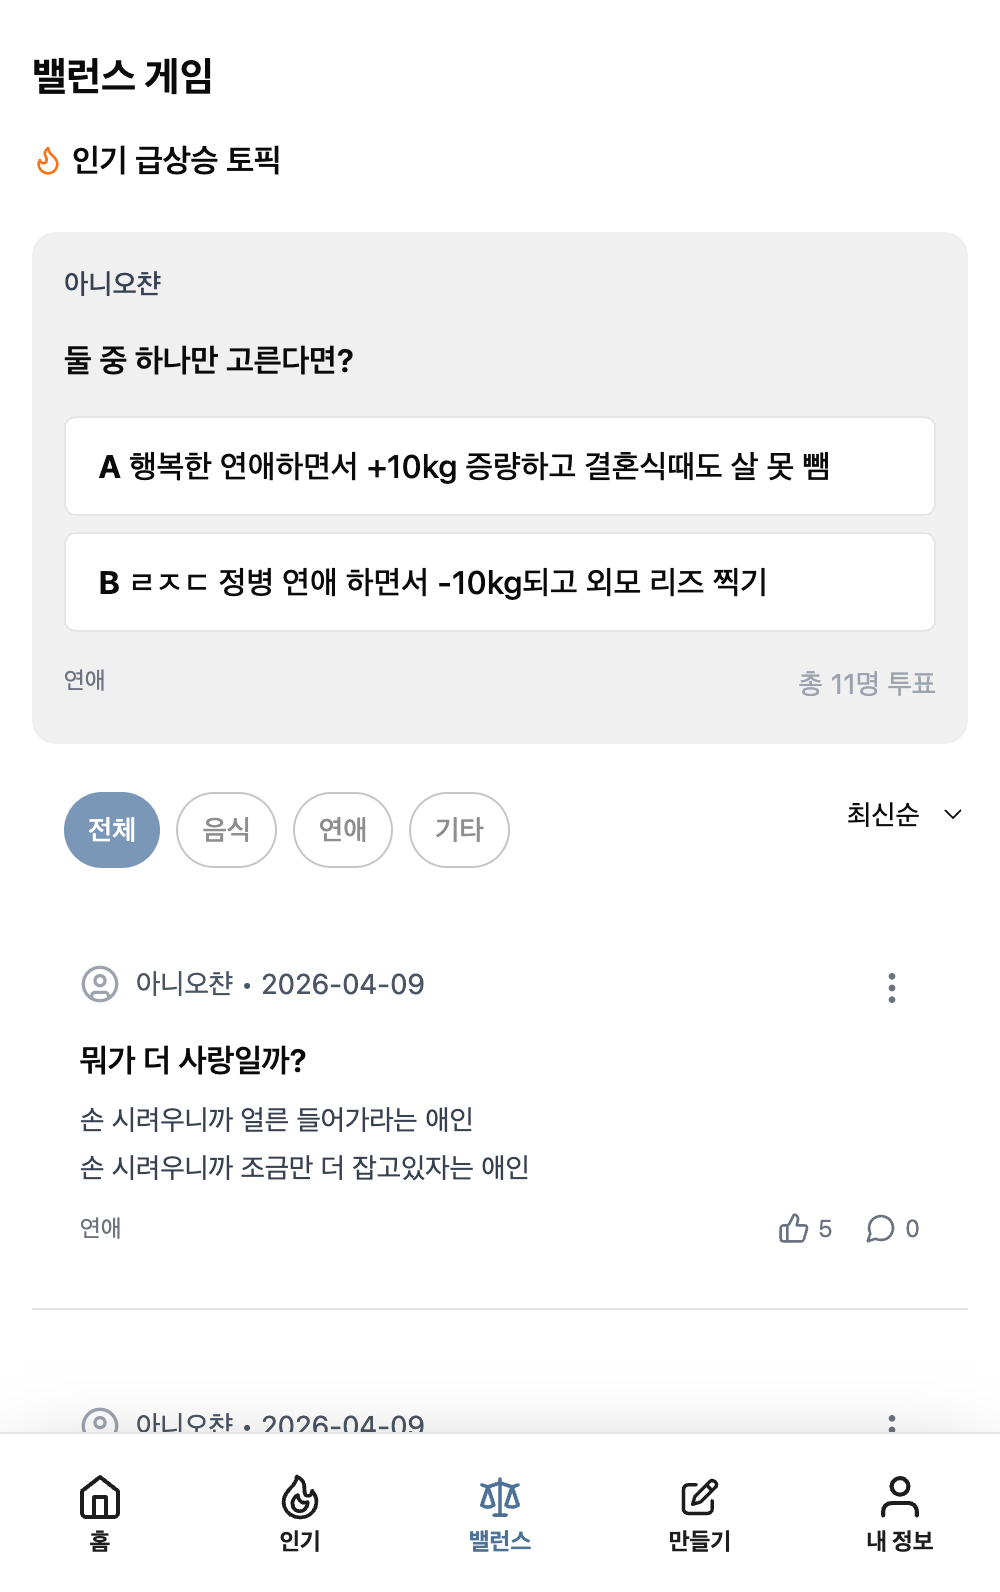
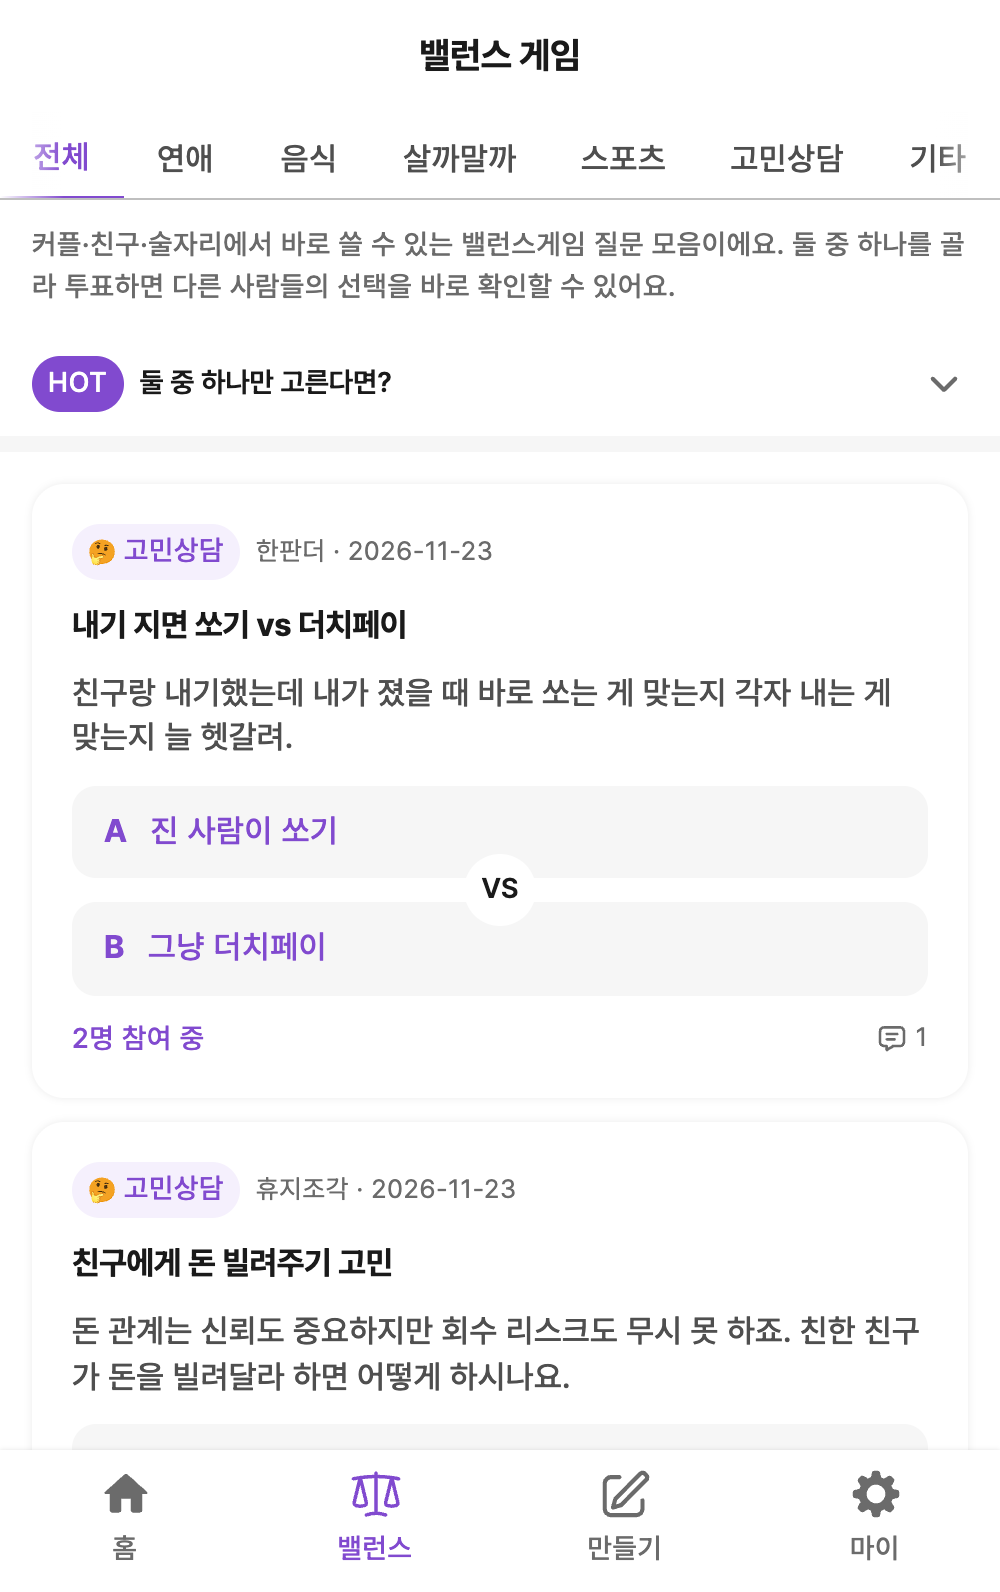
feat: 서비스 캡처 갱신 — ValanSe 새 화면, DearBloom·OurToday 갤러리, Penote 커버, 연락→Contact (#2)

diff --git a/lib/resume.ts b/lib/resume.ts
@@ -62,6 +62,7 @@ export type SmallProject = {
   bullets: LocalizedString[];
   techStack?: string[];
   url?: string;
+  cover?: string;
 };
 
 export type OtherExperience = {
@@ -223,6 +224,30 @@ export const resumeProjects: ResumeProject[] = [
     ],
     liveUrl: "https://dearbloom.co.kr",
     codeUrl: "https://github.com/Central-MakeUs/dearbloom-client",
+    cover: "/projects/dearbloom-snaps.png",
+    gallery: [
+      {
+        src: "/projects/dearbloom-snaps.png",
+        caption: {
+          ko: "탐색 — 필터와 졸업 스냅 작품 목록(Astro SSR)",
+          en: "Browse — filters and graduation-snap listings (Astro SSR)",
+        },
+      },
+      {
+        src: "/projects/dearbloom-detail.png",
+        caption: {
+          ko: "작품 상세 — 가격·패키지와 문의하기",
+          en: "Snap detail — pricing, packages and inquiry",
+        },
+      },
+      {
+        src: "/projects/dearbloom-for-artists.png",
+        caption: {
+          ko: "작가 사전등록 랜딩 — 오픈 혜택과 사전등록",
+          en: "Photographer pre-registration landing",
+        },
+      },
+    ],
     gradient: "from-pink-400/30 via-rose-300/20 to-fuchsia-400/30",
   },
   {
@@ -275,6 +300,44 @@ export const resumeProjects: ResumeProject[] = [
       "Astro",
     ],
     gradient: "from-sky-400/30 via-indigo-300/20 to-violet-400/30",
+    cover: "/projects/ourtoday-feed.png",
+    gallery: [
+      {
+        src: "/projects/ourtoday-feed.png",
+        caption: {
+          ko: "피드 — 작년 오늘, 사진·위치가 담긴 3줄 기록",
+          en: "Feed — on-this-day and three-line posts with photos and places",
+        },
+      },
+      {
+        src: "/projects/ourtoday-calendar.png",
+        caption: {
+          ko: "캘린더 — 기록과 메모를 날짜별로",
+          en: "Calendar — posts and notes by date",
+        },
+      },
+      {
+        src: "/projects/ourtoday-bucket.png",
+        caption: {
+          ko: "버킷리스트 — 함께 이룬 것 진행률",
+          en: "Bucket list — shared progress",
+        },
+      },
+      {
+        src: "/projects/ourtoday-me.png",
+        caption: {
+          ko: "마이 — 커플 정보, 둘의 기록 통계, 알림 설정",
+          en: "My page — couple info, stats and notification settings",
+        },
+      },
+      {
+        src: "/projects/ourtoday-login.png",
+        caption: {
+          ko: "로그인 — 카카오·Apple 로그인",
+          en: "Sign-in — Kakao and Apple",
+        },
+      },
+    ],
   },
   {
     slug: "agent-skills",
@@ -462,64 +525,50 @@ export const resumeProjects: ResumeProject[] = [
       {
         src: "/projects/valanse-home.png",
         caption: {
-          ko: "홈 — 저울 일러스트와 카테고리 진입",
-          en: "Home — scale illustration and category entry",
+          ko: "홈 — 뜨고 있는 밸런스, 주제 바로가기, 새로 올라온 밸런스",
+          en: "Home — trending poll, topic shortcuts and newest polls",
         },
       },
       {
         src: "/projects/valanse-balanse.png",
         caption: {
-          ko: "밸런스 탭 — 인기 토픽, 카테고리 필터, 무한스크롤 카드",
-          en: "Balanse tab — hot topics, category filter, infinite-scroll cards",
+          ko: "밸런스 탭 — 카테고리 필터와 카드 리스트",
+          en: "Balanse tab — category filter and card list",
         },
       },
       {
-        src: "/projects/valanse-poll-detail.png",
+        src: "/projects/valanse-poll.png",
         caption: {
-          ko: "투표 결과 — 남자/여자 분포",
-          en: "Poll result — male/female distribution",
+          ko: "투표 상세 — 선택지, 베스트 댓글, 댓글",
+          en: "Poll detail — options, best comment and comments",
         },
       },
       {
-        src: "/projects/valanse-poll-detail-age.png",
+        src: "/projects/valanse-topics.png",
         caption: {
-          ko: "투표 결과 — 나이대별 분포",
-          en: "Poll result — by age group",
-        },
-      },
-      {
-        src: "/projects/valanse-poll-detail-mbti.png",
-        caption: {
-          ko: "투표 결과 — MBTI별 분포",
-          en: "Poll result — by MBTI",
-        },
-      },
-      {
-        src: "/projects/valanse-hot.png",
-        caption: {
-          ko: "오늘의 핫이슈 — 인기 투표 큐레이션",
-          en: "Today's hot issue — popular poll curation",
-        },
-      },
-      {
-        src: "/projects/valanse-point.png",
-        caption: {
-          ko: "포인트 — 보유 포인트·적립/사용 내역",
-          en: "Points — balance and history",
-        },
-      },
-      {
-        src: "/projects/valanse-titles.png",
-        caption: {
-          ko: "칭호 — 티어별 보유/잠금 표시",
-          en: "Titles — owned and locked by tier",
+          ko: "주제 추천 — 지금 인기 있는 밸런스게임 주제",
+          en: "Topic picks — trending balance-game topics",
         },
       },
       {
         src: "/projects/valanse-create.png",
         caption: {
-          ko: "밸런스 게임 만들기 — 질문·썰·선택지 폼",
-          en: "Create — question, story, and options form",
+          ko: "밸런스 게임 만들기 — 질문·썰·주제·선택지 폼",
+          en: "Create a poll — question, story, topic and options",
+        },
+      },
+      {
+        src: "/projects/valanse-my.png",
+        caption: {
+          ko: "마이 — 활동 요약, 포인트, 칭호, 계정 관리",
+          en: "My page — activity, points, title and account settings",
+        },
+      },
+      {
+        src: "/projects/valanse-titles.png",
+        caption: {
+          ko: "칭호 — 보유/잠금 칭호와 장착",
+          en: "Titles — owned and locked titles",
         },
       },
     ],
@@ -915,6 +964,7 @@ export const smallProjects: SmallProject[] = [
     ],
     techStack: ["JavaScript", "pdf.js", "IndexedDB", "PWA"],
     url: "https://apps.apple.com/kr/app/id6831163579",
+    cover: "/projects/penote-pdf.jpg",
   },
   {
     slug: "paper",

diff --git a/components/sections/activities.tsx b/components/sections/activities.tsx
@@ -1,6 +1,7 @@
 "use client";
 
 import { useLocale, useTranslations } from "next-intl";
+import Image from "next/image";
 import { motion } from "motion/react";
 import { FadeIn } from "@/components/motion/fade-in";
 import { activities, smallProjects, type Activity } from "@/lib/data";
@@ -65,6 +66,17 @@ function CardListSection({
               transition={{ type: "spring", stiffness: 280, damping: 22 }}
               className="rounded-2xl border border-foreground/10 bg-card/60 p-6 backdrop-blur"
             >
+              {a.cover && (
+                <div className="relative -mx-6 -mt-6 mb-5 aspect-[16/9] overflow-hidden rounded-t-2xl border-b border-foreground/10">
+                  <Image
+                    src={a.cover}
+                    alt={a.name[locale]}
+                    fill
+                    sizes="(min-width: 768px) 560px, 100vw"
+                    className="object-cover object-top"
+                  />
+                </div>
+              )}
               <p className="font-mono text-xs text-muted">
                 {a.period.start} — {a.period.end ?? tExp("present")}
               </p>

diff --git a/lib/data.ts b/lib/data.ts
@@ -86,6 +86,7 @@ export type Activity = {
   bullets: { ko: string; en: string }[];
   techStack?: string[];
   url?: string;
+  cover?: string;
 };
 
 export const smallProjects: Activity[] = resumeSmallProjects.map((p) => ({
@@ -94,6 +95,7 @@ export const smallProjects: Activity[] = resumeSmallProjects.map((p) => ({
   bullets: p.bullets,
   techStack: p.techStack,
   url: p.url,
+  cover: p.cover,
 }));
 
 export const activities: Activity[] = otherExperiences.map((o) => ({
